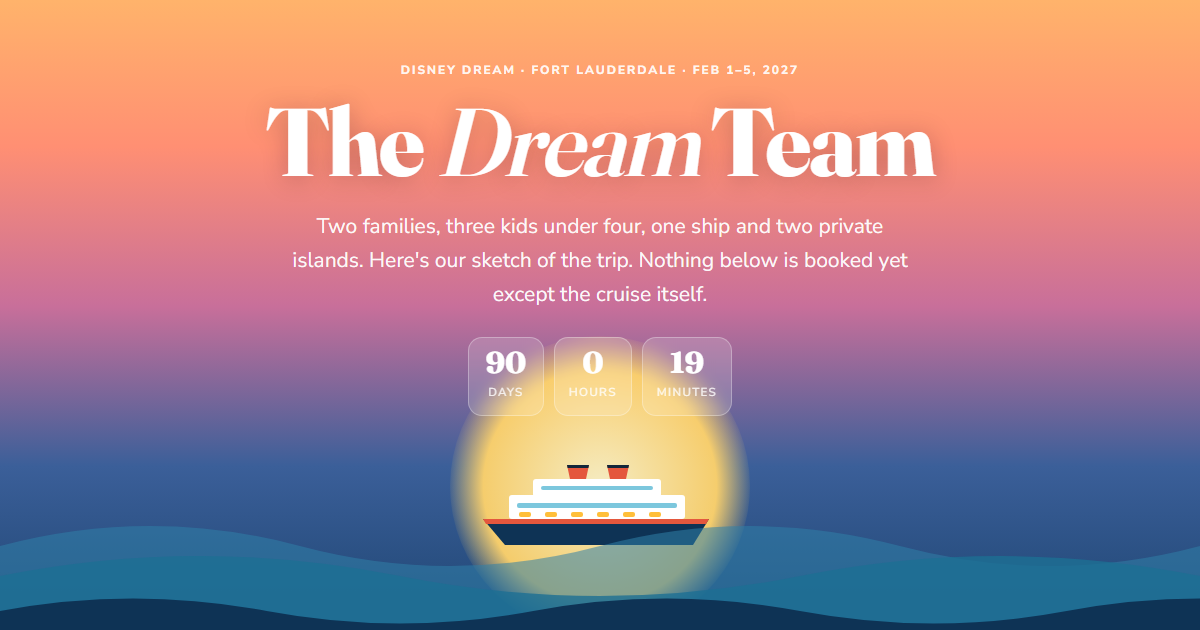
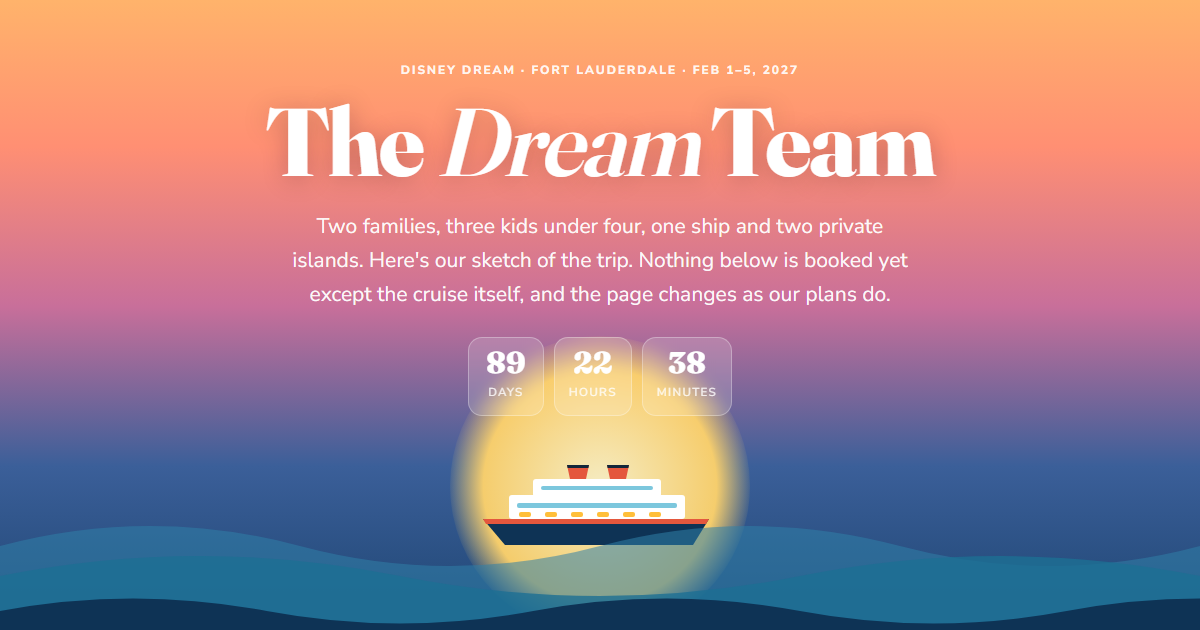
cruise: status board + Emily's feedback (brunch for 2 or 4, no Tue-night encore, dinner waitlist)

diff --git a/cruise/index.html b/cruise/index.html
@@ -238,6 +238,23 @@
   .pack input{accent-color:var(--coral);width:18px;height:18px;margin-top:3px;flex:none}
   .pack input:checked+span{text-decoration:line-through;color:var(--faint)}
 
+  /* ---------- status board ---------- */
+  .board{display:grid;grid-template-columns:repeat(3,1fr);gap:16px}
+  .col{padding:18px 20px 8px}
+  .col h3{display:flex;align-items:center;gap:9px;font-size:19px;margin-bottom:4px}
+  .col h3 i{width:12px;height:12px;border-radius:50%;flex:none}
+  .col ul{list-style:none;margin:0;padding:0}
+  .col li{padding:11px 0;border-bottom:1px dashed var(--rule)}
+  .col li:last-child{border-bottom:0}
+  .col li b{display:block;font-size:15.5px;line-height:1.35}
+  .col li span{display:block;color:var(--muted);font-size:14px;margin-top:3px}
+  .col li small{display:inline-block;margin-top:6px;font:800 11px var(--sans);letter-spacing:.04em;padding:4px 8px;border-radius:99px;background:var(--foam);color:var(--sea)}
+  .changes{margin-top:18px;padding:16px 20px}
+  .changes h4{margin:0 0 6px;font:800 13px/1 var(--sans);letter-spacing:.14em;text-transform:uppercase;color:var(--faint)}
+  .changes ul{margin:0;padding-left:18px}
+  .changes li{margin:6px 0;font-size:14.5px;color:var(--muted)}
+  .changes li b{color:var(--coral)}
+
   footer{margin-top:70px;padding:40px 0 60px;border-top:1px solid var(--rule);color:var(--muted);font-size:14px}
   footer details{margin-top:12px}
   footer summary{cursor:pointer;font-weight:800;color:var(--ink)}
@@ -245,7 +262,7 @@
   footer li{margin:0 0 4px;break-inside:avoid}
 
   @media (max-width:820px){
-    .ship-grid,.islands{grid-template-columns:1fr}
+    .ship-grid,.islands,.board{grid-template-columns:1fr}
     .ticket{grid-template-columns:1fr}
     .ship-card{position:static}
     .ticket .l:after{display:none}
@@ -277,7 +294,7 @@
   <div class="hero-in">
     <div class="kicker">Disney Dream · Fort Lauderdale · Feb 1–5, 2027</div>
     <h1>The <em>Dream</em> Team</h1>
-    <p class="sub">Two families, three kids under four, one ship and two private islands. Here's our sketch of the trip. Nothing below is booked yet except the cruise itself.</p>
+    <p class="sub">Two families, three kids under four, one ship and two private islands. Here's our sketch of the trip. Nothing below is booked yet except the cruise itself, and the page changes as our plans do.</p>
     <div class="count" id="count" aria-label="Countdown to sail-away"></div>
   </div>
   <div class="boat" aria-hidden="true">
@@ -291,7 +308,7 @@
 </header>
 
 <nav class="top" aria-label="Sections"><div class="wrap" id="navlinks">
-  <a href="#crew">Crew</a><a href="#route">Route</a><a href="#days">Day by day</a><a href="#grownups">Grown-ups' block</a><a href="#ship">The ship</a><a href="#kids">Kids</a><a href="#islands">Islands</a><a href="#book">Book when</a><a href="#tips">Tips</a><a href="#pack">Pack</a>
+  <a href="#crew">Crew</a><a href="#status">Status</a><a href="#route">Route</a><a href="#days">Day by day</a><a href="#grownups">Grown-ups' block</a><a href="#ship">The ship</a><a href="#kids">Kids</a><a href="#islands">Islands</a><a href="#book">Book when</a><a href="#tips">Tips</a><a href="#pack">Pack</a>
 </div></nav>
 
 <main>
@@ -316,6 +333,14 @@
     </div>
   </div>
   <div class="card tldr" id="tldr"></div>
+</div></section>
+
+<section id="status"><div class="wrap">
+  <div class="kicker">Where things stand</div>
+  <h2>Settled, still open, your call</h2>
+  <p class="lede" id="status-lede"></p>
+  <div class="board" id="board"></div>
+  <div class="card changes"><h4>What's changed</h4><ul id="changes"></ul></div>
 </div></section>
 
 <section id="route"><div class="wrap">
@@ -425,7 +450,7 @@
 <script>
 /* ====================== DATA ====================== */
 const SAIL = new Date("2027-02-01T16:00:00-05:00");
-const UPDATED = "Nov 3, 2026";
+const UPDATED = "Nov 3, 2026 (evening)";
 
 let TLDR = "";
 
@@ -441,18 +466,45 @@ const TIPS = [];
 const PACK = [];
 const SOURCES = [];
 const LEDES = {};
+const STATUS = {done:[], open:[], yours:[]};
+const CHANGES = [];
 /* Content for /cruise/. Research: disney-cruise-feb-2027/ad-hoc/261103-amenities-deep-dive/ (A official, B Reddit, C forums). */
 
 TLDR = `<h3 style="font-size:24px">The plan in 30 seconds</h3>
 <ol>
-  <li><b>Alyssa &amp; Anthony, this week:</b> get on <b>early (5:45 PM) dinner seating</b>, then <b>link our two reservations</b> so we share a dinner table and can book things together. Early seating fills, and linking doesn't line up seatings for you, so double-check both after linking.</li>
-  <li><b>Midnight Tue Nov 17 (= 12:00 AM Wed Nov 18 ET):</b> first-timers' booking window opens. Grab the <b>nursery for Carrie</b>, <b>Palo brunch for four</b>, a <b>shared Castaway Cay cabana</b> and the free princess meet.</li>
-  <li><b>The grown-ups' block:</b> <b>Palo brunch, Thu Feb 4, ~10:00–12:15</b>, on the sea day. Carrie naps in the nursery; Josie and Jack go to the Oceaneer Club together.</li>
+  <li><b>Dinner together:</b> Alyssa &amp; Anthony are on the <b>waitlist for early (5:45 PM) seating</b>. Keep checking the app, and <b>link our two reservations</b> so we can book things together. Linking doesn't line up seatings for you, so double-check both after linking.</li>
+  <li><b>Midnight Tue Nov 17 (= 12:00 AM Wed Nov 18 ET):</b> first-timers' booking window opens. Grab the <b>nursery for Carrie</b>, <b>Palo brunch</b>, a <b>shared Castaway Cay cabana</b> and the free princess meet.</li>
+  <li><b>The grown-ups' block:</b> <b>Palo brunch, Thu Feb 4, ~10:00–12:15</b>, on the sea day. Carrie naps in the nursery and Josie goes to the Oceaneer Club. Garrett &amp; Emily are going either way; Alyssa &amp; Anthony join if Jack's up for the club (no pressure).</li>
   <li><b>Best day:</b> <b>Castaway Cay, Wed Feb 3</b>. It's Carrie's first birthday, with one cabana for both families (about $470–555 per family) and smash cake on the verandah after naps.</li>
   <li><b>Stay flexible and pack layers.</b> Winter weather moves things around. A Feb 2026 Dream sailing saw the 50s and lost its Castaway Cay day. A Jan 2026 sailing with our exact Mon–Fri pattern swapped the order to sea day first, then the islands. Every day below has a fallback.</li>
 </ol>`;
 
-LEDES["gu-lede"] = `The plan is <b>Palo</b>, the adults-only Italian restaurant on Deck 12 aft with ocean views (Ed says it's great). On the Dream, brunch runs only on <b>sea days</b>, and we have exactly one. Since <b>Oct 23, 2026</b> Palo <i>dinner</i> is à la carte, while brunch is still a fixed <b>$55 per person</b>, and brunch also lands in the kids' easiest window: after breakfast, before lunch, during Carrie's morning nap.`;
+LEDES["status-lede"] = `The plan moves as we hear from each other. Send changes in the group chat, and this page gets updated from it.`;
+
+STATUS.done.push(
+  { h:"Palo brunch on the sea day, Thu Feb 4", p:"Garrett &amp; Emily are in either way. It's the trip's one grown-ups' block.", by:"Emily, Nov 3" },
+  { h:"Carrie's 1st birthday on Castaway Cay", p:"Smash cake on our verandah after naps, Wed Feb 3. Everyone's invited." },
+  { h:"Pirate Night: family party, then bed", p:"We dropped the late grown-ups' encore. Keeping the kids at the club late and Carrie asleep in the nursery didn't sit right, so Tuesday ends after the early deck party.", by:"Emily, Nov 3" }
+);
+STATUS.open.push(
+  { h:"Early dinner for Alyssa &amp; Anthony", p:"They're on the 5:45 waitlist. If it clears, we eat together every night; if not, we still have breakfasts, lunches, the islands and the cabana.", by:"Waiting on Disney" },
+  { h:"Which night is Pirate Night?", p:"Probably Tue Feb 2 (Lookout Cay). We'll know on Nov 18 from the boutique's pirate makeover dates." },
+  { h:"Bluey", p:"The Dream is on Disney's Bluey list, but appearances are \"sporadic\". The times show up in the app onboard." }
+);
+STATUS.yours.push(
+  { h:"Brunch for four?", p:"Only if Jack's game for the club, or the nursery as a backup (it takes under-4s; staff help in the bathroom). If you're leaning yes, tell us by Nov 17 and we'll book for four; a trial drop-off on Day 1 will show whether Jack's happier in the club or the nursery.", by:"By Nov 17" },
+  { h:"Link our reservations", p:"MyDisney → \"Add and Link Reservations\", or call DCL. It lets one of us book for everyone." },
+  { h:"Share a Castaway Cay cabana?", p:"About $470–555 per family for one Family cabana that fits all seven of us." },
+  { h:"Your Castaway Club level", p:"First-timer, Silver or Gold. It sets which night your booking window opens." }
+);
+
+CHANGES.push(
+  { d:"Nov 3, evening", t:"Emily's notes: brunch is on for us either way (four if Jack's up for the club), the late Pirate Night encore is gone, and Alyssa &amp; Anthony are waitlisted for early dinner." },
+  { d:"Nov 3", t:"Ed's tip: Disney hands out free bandanas on Pirate Night." },
+  { d:"Nov 3", t:"First version of the page." }
+);
+
+LEDES["gu-lede"] =`The plan is <b>Palo</b>, the adults-only Italian restaurant on Deck 12 aft with ocean views (Ed says it's great). On the Dream, brunch runs only on <b>sea days</b>, and we have exactly one. Since <b>Oct 23, 2026</b> Palo <i>dinner</i> is à la carte, while brunch is still a fixed <b>$55 per person</b>, and brunch also lands in the kids' easiest window: after breakfast, before lunch, during Carrie's morning nap.`;
 LEDES["kids-lede"] = `The big gate for Josie and Jack is the <b>Oceaneer Club's "fully toilet-trained" rule</b>: no Pull-Ups, and counselors can't go into the restroom with them, so each kid has to go, wipe and wash alone. They should also be OK with the loud vacuum flush. Both kids are 3 by the sailing, so they're old enough. Practice between now and January. Carrie (1) is nursery-only.`;
 LEDES["book-lede"] = `Disney opens booking by loyalty tier, and <b>each stateroom books on its own window</b>: first-timers at 75 days, Silver 90, Gold 105. A higher-tier family can't book for a first-timer cabin early. If the reservations are linked, though, one person can book everyone once both windows are open.`;
 
@@ -464,7 +516,7 @@ DAYS.push(
   { s:"13:45", e:"14:45", w:"Open houses: Oceaneer Club + nursery", who:["kids","baby"], n:"Walk Josie and Jack through the club together so they meet the counselors before the first drop-off. Carrie visits the nursery, where we can add hours. Parents suggest a short trial drop-off before relying on it for brunch." },
   { s:"14:45", e:"15:40", w:"Rooms open, quick nap or unpack", who:["fam"], n:"Bags arrive by dinner, so keep swimsuits, diapers and meds in the carry-on." },
   { s:"15:30", e:"16:15", w:"Sail-away deck party", who:["all"], n:"Deck 11, with characters, dancing and the horn (ear muffs!). It moves indoors in rain." },
-  { s:"17:45", e:"19:00", w:"Dinner together", who:["all"], n:"Only works if both families have early seating and linked reservations. Check our table number on the room card." },
+  { s:"17:45", e:"19:00", w:"Dinner together", who:["all"], n:"Together if Alyssa &amp; Anthony clear the 5:45 waitlist (and the reservations are linked). Check our table number on the room card." },
   { s:"19:15", e:"19:45", w:"Bedtime", who:["fam"], n:"Skip the 8:15 show tonight. Everyone's fried." }
 ], tip:`<b>Before sail-away:</b> stop at the Palo podium on Deck 12 to merge our two brunch tables if they were booked separately.` },
 
@@ -476,8 +528,8 @@ DAYS.push(
   { s:"12:45", e:"15:15", w:"Back aboard for naps", who:["fam"], n:"The island empties out by 2 PM anyway. The walk back is the hard part." },
   { s:"15:30", e:"17:15", w:"Nemo's Reef or the club", who:["kids","baby"], n:"Nemo's Reef is the ship's splash zone for ages 4 and under (swim diapers OK; some fixtures covered in 2026). Pirate costumes go on around 4." },
   { s:"17:45", e:"19:00", w:"Pirate dinner", who:["all"], n:"Probably tonight: three separate sources put Pirate Night on the Lookout Cay day. We'll confirm on Nov 18 by checking which night the boutique sells pirate makeovers." },
-  { s:"19:30", e:"20:15", w:"Early pirate deck party", who:["all"], n:"Captain Mickey and the crew, around 7:45, early enough for the kids." },
-  { s:"20:15", e:"22:30", w:"Grown-ups' encore: pirate party + fireworks", who:["adults"], n:"Optional second block: Josie and Jack in the club in their pirate PJs (it's open late), Carrie asleep in the nursery, us at the ~10:15 deck party, fireworks and a nightcap. Costs about 2.5 nursery hours." , big:true }
+  { s:"19:30", e:"20:15", w:"Early pirate deck party", who:["all"], n:"Captain Mickey and the crew, around 7:45, early enough for the kids. Wear the free bandanas Disney hands out on Pirate Night (Ed's tip)." },
+  { s:"20:15", e:"20:45", w:"Bedtime, pirates", who:["fam"], n:"Straight to bed after the party. The fireworks are around 10:15; any grown-up still awake can pop up to the deck for them." }
 ], tip:`<b>If the wind wins:</b> Lookout Cay's pier is open ocean, so it's the island most likely to get skipped in winter. Then it's a sea day: Bluey events, the club, Nemo's Reef, and Palo brunch might pop up today too.` },
 
 { n:3, date:"Wed Feb 3", title:"Castaway Cay + Carrie turns 1", where:"Castaway Cay · ashore ~8:30 AM", emoji:"🎂", items:[
@@ -496,14 +548,14 @@ DAYS.push(
 { n:4, date:"Thu Feb 4", title:"Sea day: the grown-ups' block", where:"At sea · the one day with nowhere to be", emoji:"🥂", items:[
   { s:"07:45", e:"08:45", w:"Big breakfast", who:["all"], n:"The kids' clubs haven't served food since Covid (r/dcl and planDisney, 2026); only the nursery feeds kids. Fill them up first." },
   { s:"08:45", e:"09:30", w:"Bluey Wakey Wakey (if it's on)", who:["kids","fam"], n:"A morning dance party in the D Lounge on Deck 4. It's packed. Stand at the <i>back</i>: that's the front of the Bluey and Bingo meet line afterward. Times are only in the Navigator app." },
-  { s:"09:45", e:"12:30", w:"Drop-off: nursery + Oceaneer Club", who:["kids","baby"], n:"Carrie naps in a nursery crib; Josie and Jack go to the club together (Andy's Room, Frozen, Marvel, the PlayFloor). Each family authorizes the other's adults for pick-up." },
-  { s:"10:00", e:"12:15", w:"Palo brunch for four", who:["adults"], n:"Deck 12 aft, $55 each plus gratuity. Antipasti, a parmesan station, pizzas, made-to-order eggs, tiramisu. Dress code: no shorts or flip-flops.", big:true },
+  { s:"09:45", e:"12:30", w:"Drop-off: nursery + Oceaneer Club", who:["kids","baby"], n:"Carrie naps in a nursery crib; Josie goes to the club (Andy's Room, Frozen, Marvel, the PlayFloor), with Jack if he's in. Each family authorizes the other's adults for pick-up." },
+  { s:"10:00", e:"12:15", w:"Palo brunch (for two or four)", who:["adults"], n:"Deck 12 aft, $55 each plus gratuity. Antipasti, a parmesan station, pizzas, made-to-order eggs, tiramisu. Dress code: no shorts or flip-flops.", big:true },
   { s:"12:30", e:"13:15", w:"Pick-up + lunch", who:["all"], n:"Flo's Café or Cabanas." },
   { s:"13:15", e:"15:30", w:"Naps", who:["fam"], n:"Or a verandah sit. The adults-only Quiet Cove pool and Cove Café are on Deck 11 forward." },
   { s:"15:30", e:"17:15", w:"Pool deck + character meets", who:["all"], n:"Nemo's Reef for the little ones; the AquaDuck (42\" minimum) for grown-ups. Bluey or Royal Gathering meets if scheduled." },
   { s:"17:45", e:"19:00", w:"Dinner (dress-up optional)", who:["all"], n:"Good night for family photos with the ship's photographers." },
   { s:"20:15", e:"21:15", w:"A show (hopefully Beauty and the Beast)", who:["fam"], n:"Show nights are set onboard. If you only see one, make it Beauty and the Beast: sit on Deck 3 and arrive 30 minutes early." }
-], tip:`<b>Plan B for the block:</b> if brunch sells out, put the four of us on the cancellation watch and check the app daily; brunch tables open up. The fallback is post-show drinks at Meridian or the District with the kids in the club.` },
+], tip:`<b>Plan B for the block:</b> if brunch sells out, get on the cancellation watch and check the app daily; brunch tables open up. The fallback stays daytime: Cove Café or a mixology tasting while Josie's in the club and Carrie naps in the nursery.` },
 
 { n:5, date:"Fri Feb 5", title:"Home again", where:"Port Everglades · off the ship 7–9 AM", emoji:"🧳", items:[
   { s:"07:00", e:"09:00", w:"Breakfast + walk off", who:["all"], n:"Disembarkation breakfast, then customs. Carry your own bags off for an earlier exit." },
@@ -517,18 +569,19 @@ Object.assign(TICKET, {
   meta:[["When","Thu Feb 4"],["Seating","10:00 or 10:30"],["Where","Deck 12 aft"],["Cost","$55 pp + tip"],["Length","≈ 2 hours"],["Dress","No shorts/flip-flops"]],
   body:`<p>Brunch is offered only on sea days on our sailing, and that's Thursday. Forums call it "very hard to book", so it's the <b>second</b> thing we grab at midnight Nov 18, right after Carrie's nursery hours.</p>
   <p><b>Clock tip:</b> brunch can run 2 to 3 hours, so we book 3 hours of kid-care and tell the server up front we need to be out by 12:15.</p>
+  <p><b>Two or four?</b> Garrett &amp; Emily are booking it either way. Alyssa &amp; Anthony, tell us by Nov 17 if you're in, since adding seats to a full brunch later is hard.</p>
   <p><b>Booking for four from two staterooms:</b> link the reservations first, and then whoever's window is open can probably book all four. If Alyssa &amp; Anthony's window opens earlier, they book a table for two at our target time, we book the same time on Nov 18, and we ask DCL (or the Palo podium on Day 1) to merge them.</p>`,
   kids:[
     { who:"Carrie → nursery, 9:45–12:45", what:"\"it's a small world\" nursery, Deck 5, $10/hr. She naps in their crib; parents report this is the move. Pack shelf-stable food, bottle or sippy, diapers, clothes and a lovey.", i:"C", c:"var(--baby)" },
-    { who:"Josie + Jack → Oceaneer Club", what:"Ages 3–10 together in the 3–4 programming. The club serves no food, so drop-off comes after a big breakfast. Each family authorizes the other's adults for pick-up.", i:"J", c:"var(--kids)" },
-    { who:"Backup if a 3-year-old balks", what:"Parents on r/dcl report the nursery also takes 3-year-olds (\"under 4\"), and its staff can help in the bathroom. Worth holding a backup nursery block for Josie or Jack and cancelling onboard.", i:"?", c:"var(--plum)" },
+    { who:"Josie (+ Jack, if he's game) → Oceaneer Club", what:"Ages 3–10, with the 3- and 4-year-olds in their own small group. The club serves no food, so drop-off comes after a big breakfast. Each family authorizes the other's adults for pick-up.", i:"J", c:"var(--kids)" },
+    { who:"If Jack (or Josie) isn't up for the club", what:"Parents on r/dcl report the nursery also takes 3-year-olds (\"under 4\"). It's a smaller, quieter room, and staff can help in the bathroom. A short trial drop-off on Day 1 shows who's game; hold a backup nursery block and cancel it onboard if it isn't needed.", i:"?", c:"var(--plum)" },
     { who:"Total kid-care cost", what:"About $30 for Carrie's nursery hours. The club is free.", i:"$", c:"var(--lagoon)" }
   ]
 });
 
 ALTS.push(
-  { score:"Plan B · if brunch is gone", h:"Palo dinner, ~7:30 PM (Pirate Night?)", p:"The r/dcl pattern: everyone eats at the 5:45 dinner, the kids go to the club and nursery, and the four of us go to Palo at 7:30. Many do it on Pirate Night. Since Oct 23 it's à la carte; Reddit bills run about $80–125 a couple with tip." },
-  { score:"Cheap encore · free-ish", h:"Post-show drinks: Meridian or the District", p:"The Oceaneer Club runs late (mats and a movie for sleepy 3-year-olds), and the nursery runs evenings. Meridian sits between Palo and Remy on Deck 12, and the District bars are on Deck 4 aft." },
+  { score:"Plan B · evening, if brunch is gone", h:"Palo dinner, ~7:30 PM", p:"The r/dcl pattern: everyone eats at the 5:45 dinner, the kids go to the club and nursery, and the grown-ups go to Palo at 7:30. It means an evening drop-off, which we'd rather skip, so it's only the backup. Since Oct 23 it's à la carte; Reddit bills run about $80–125 a couple with tip." },
+  { score:"Tag-team · free-ish", h:"A drink at Meridian or the District", p:"One couple goes out after bedtime while the other stays on the verandah next to the sleeping kids, then swap another night. Meridian sits between Palo and Remy on Deck 12, and the District bars are on Deck 4 aft." },
   { score:"Nap-time option", h:"Remy Dessert Experience, Thu 3:30 PM", p:"About $70 a head for a multi-course dessert tasting on the sea day. Gorgeous, but it uses the same sea-day nursery hours and comes right after brunch. Remy <i>dinner</i> ($145, up to 3 hours) is too long for a 2-hour block." },
   { score:"Tag-team only", h:"Serenity Bay adult beaches", p:"Both islands have an 18+ beach, but there's no island childcare for a 1-year-old. Either tag-team, or Carrie stays in the ship nursery while Josie and Jack do the island kids' club." },
   { score:"Short + fun · ~45–60 min", h:"Mixology or old-fashioned tasting", p:"Paid tastings in Skyline or Meridian, seen on a March 2026 Dream sailing. Bookable onboard." }
@@ -595,10 +648,10 @@ ISLANDS.push(
 );
 
 TIMELINE.push(
-  { when:"This week", icon:"⚓", hot:true, who:["all"], h:"Link up + same dinner seating", p:"Alyssa &amp; Anthony: switch to <b>early (5:45) seating</b> if you're not on it, then link our reservations in MyDisney (\"Add and Link Reservations\": the other booking's number plus the primary guest's last name and birthdate) or by calling DCL at 800-951-3532. If you haven't picked a stateroom, ask for one near Deck 6 midship. Then tell us your <b>Castaway Club level</b>, which sets your booking window." },
+  { when:"This week", icon:"⚓", hot:true, who:["all"], h:"Link up + same dinner seating", p:"Alyssa &amp; Anthony: stay on the <b>early (5:45) seating</b> waitlist and keep checking the app, then link our reservations in MyDisney (\"Add and Link Reservations\": the other booking's number plus the primary guest's last name and birthdate) or by calling DCL at 800-951-3532. If you haven't picked a stateroom, ask for one near Deck 6 midship. Then tell us your <b>Castaway Club level</b>, which sets your booking window, and whether you're in for <b>brunch</b>." },
   { when:"Now → January", icon:"🚽", who:["kids"], h:"Potty independence", p:"Josie and Jack each need to go, wipe and wash with no help, and be OK with a very loud vacuum flush. That's the ticket into the Oceaneer Club." },
-  { when:"If you're Silver or Gold", icon:"⭐", who:["adults"], h:"Your window opens first (90 / 105 days)", p:"Book your own Palo brunch for two on <b>Thu Feb 4 at our agreed time</b> and grab a <b>Castaway Cay family cabana</b> for your cabin. We'll get added to it onboard and split the cost." },
-  { when:"Midnight Tue Nov 17 → Wed Nov 18, 12:00 AM ET", date:"2026-11-18T05:00:00Z", icon:"🕛", hot:true, who:["all"], h:"First-timers' booking window", p:"In this order: <b>1.</b> Nursery for Carrie (Thu 9:45–12:45, Tue evening, plus a spare block; 10 hours max). <b>2.</b> Palo brunch, Thu Feb 4. <b>3.</b> Cabana, Wed Feb 3, if nobody has one yet. <b>4.</b> Royal Gathering (free). <b>5.</b> Boutique makeovers, if wanted. Also note which night pirate makeovers are sold: that's Pirate Night." },
+  { when:"If you're Silver or Gold", icon:"⭐", who:["adults"], h:"Your window opens first (90 / 105 days)", p:"If you're in for brunch, book your own Palo table for two on <b>Thu Feb 4 at our agreed time</b>, and grab a <b>Castaway Cay family cabana</b> for your cabin. We'll get added to it onboard and split the cost." },
+  { when:"Midnight Tue Nov 17 → Wed Nov 18, 12:00 AM ET", date:"2026-11-18T05:00:00Z", icon:"🕛", hot:true, who:["all"], h:"First-timers' booking window", p:"In this order: <b>1.</b> Nursery for Carrie (Thu 9:45–12:45 for brunch, plus a spare daytime block; 10 hours max), and a backup block for a 3-year-old if anyone wants one. <b>2.</b> Palo brunch, Thu Feb 4, for two or four. <b>3.</b> Cabana, Wed Feb 3, if nobody has one yet. <b>4.</b> Royal Gathering (free). <b>5.</b> Boutique makeovers, if wanted. Also note which night pirate makeovers are sold: that's Pirate Night." },
   { when:"Nov 18 → Jan 29", icon:"📸", who:["fam"], h:"Photo package + cancellation watch", p:"Unlimited photos are cheaper before boarding. Keep refreshing for Palo, cabana and nursery cancellations." },
   { when:"Sat Jan 2, 2027", date:"2027-01-02T05:00:00Z", icon:"✅", who:["all"], h:"Online check-in (first-timers)", p:"Pick the <b>same port arrival time</b> (12:00–12:30), register Josie and Jack for the club, and add each other's adults as authorized pick-ups." },
   { when:"Mon Jan 25", date:"2027-01-25T05:00:00Z", icon:"🎂", who:["fam"], h:"Cake deadline", p:"Order Carrie's Mickey or Minnie cake for delivery Wed Feb 3. The birthday decor kit and door magnets are due by Fri Jan 29." },
@@ -688,6 +741,12 @@ tick(); setInterval(tick, 30000);
 $("#tldr").innerHTML = TLDR;
 $("#updated").textContent = UPDATED;
 for (const [id, html] of Object.entries(LEDES)) { const el = document.getElementById(id); if (el) el.innerHTML = html; }
+
+// status board
+const COLS = [["done","Settled","var(--lagoon)"],["open","Still open","var(--sun)"],["yours","Alyssa &amp; Anthony's call","var(--plum)"]];
+$("#board").innerHTML = COLS.map(([k,h,c]) => `<div class="card col"><h3><i style="background:${c}"></i>${h}</h3><ul>${
+  STATUS[k].map(x => `<li><b>${x.h}</b><span>${x.p}</span>${x.by ? `<small>${x.by}</small>` : ""}</li>`).join("")}</ul></div>`).join("");
+$("#changes").innerHTML = CHANGES.map(c => `<li><b>${c.d}</b> ${c.t}</li>`).join("");
 
 // days
 const toMin = t => { const [h,m] = t.split(":").map(Number); return h*60+(m||0); };
